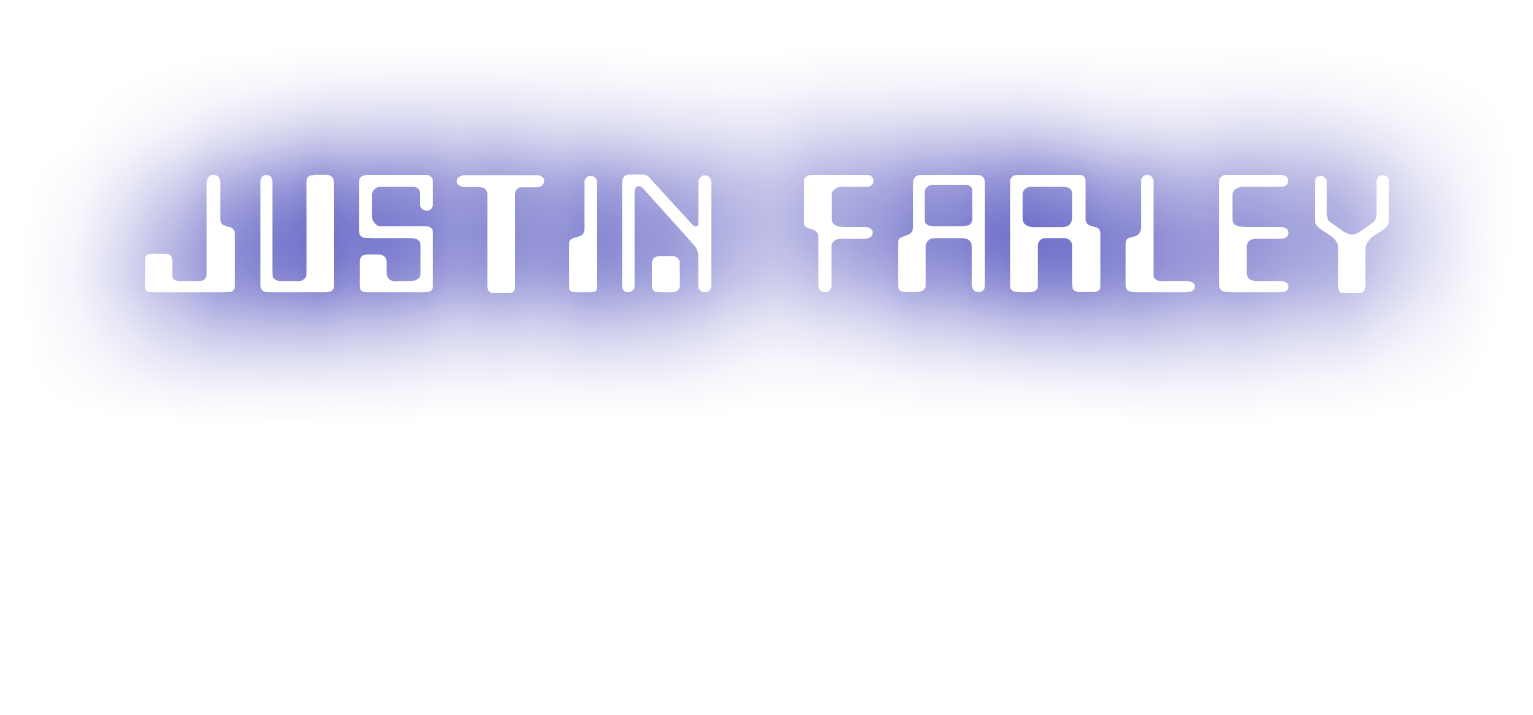
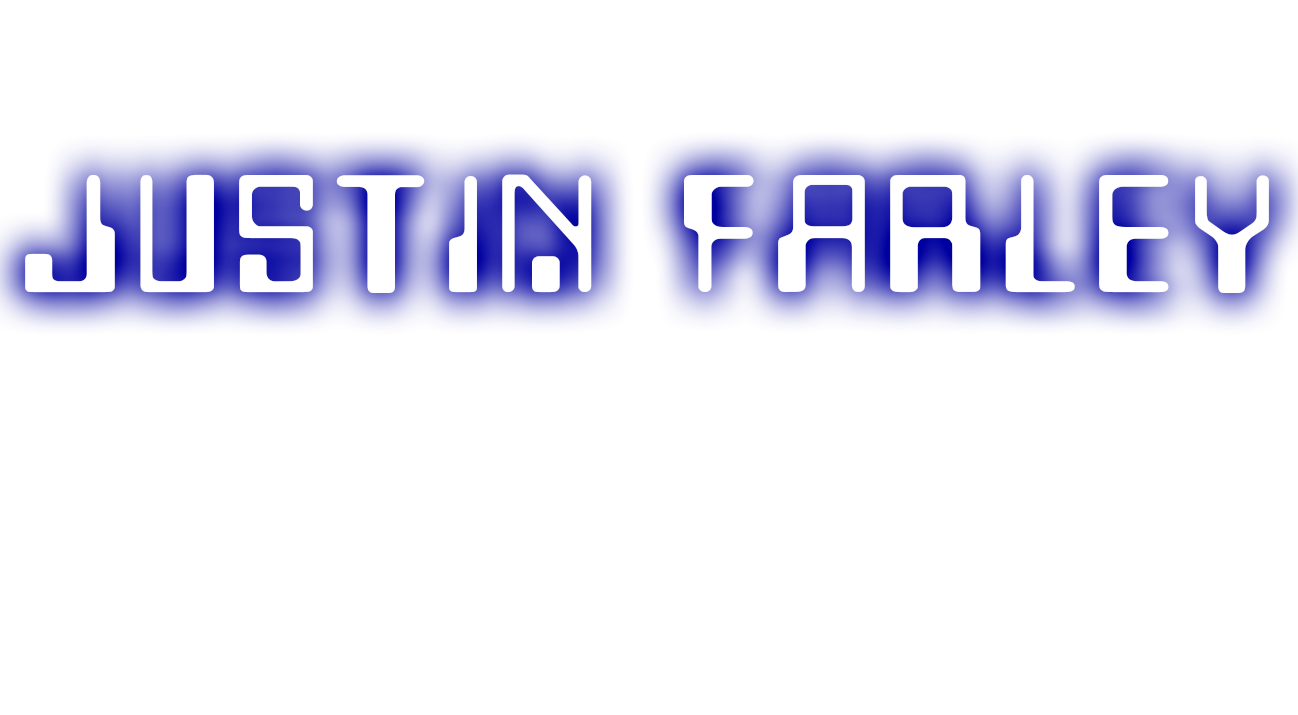
change stuff around

Changed region(s): [[0.0, 0.1231, 1.0, 0.5231]]

diff --git a/style.css b/style.css
@@ -13,6 +13,9 @@ h1.section_headers {
 
 .centered {
     text-align: center;
+    align-items: center;
+    align-self: center;
+    align-content: center;
 }
 .navlist {
     padding-left: 230px;
@@ -32,25 +35,31 @@ h1.section_headers {
     background-image: url("./images/headergifbackground.gif");
     background-repeat: no-repeat;
     background-size: contain;
+    background-size: cover;
     position: relative;
-    align-self: center;
-    align-items: center;
-    align-content: center;
-    vertical-align: middle;
     width: 100vw;
     height: 100vh;
     color: white;
 }
 
 #aboutme {
-    position: absolute;
-    top: 400px;
-    left: 150px;
+    position: relative;
+    display: inline;
+    margin-left: auto;
+    margin-right: auto;
+    left: 200px;
+    bottom: 250px;
 }
 
 #aboutme:hover {
     content: url("./images/aboutmeHOVER.png");
     opacity: 1;
+}
+.name_title {
+    display: block;
+    margin-left: auto;
+    margin-right: auto;
+    width: 50%;
 }
 
 .clickable {

diff --git a/index.html b/index.html
@@ -7,7 +7,7 @@
     </head>
     <header>
         <div id="header">
-            <img src="./images/nameheader.png" class="name_title" id="name_header">
+            <img src="./images/nameheader.png" class="name_title centered" id="name_header">
             <a class="clickable" id="aboutme" href="#about">
                 <img src="./images/aboutme.png" alt="About Me clickable image">
             </a>
